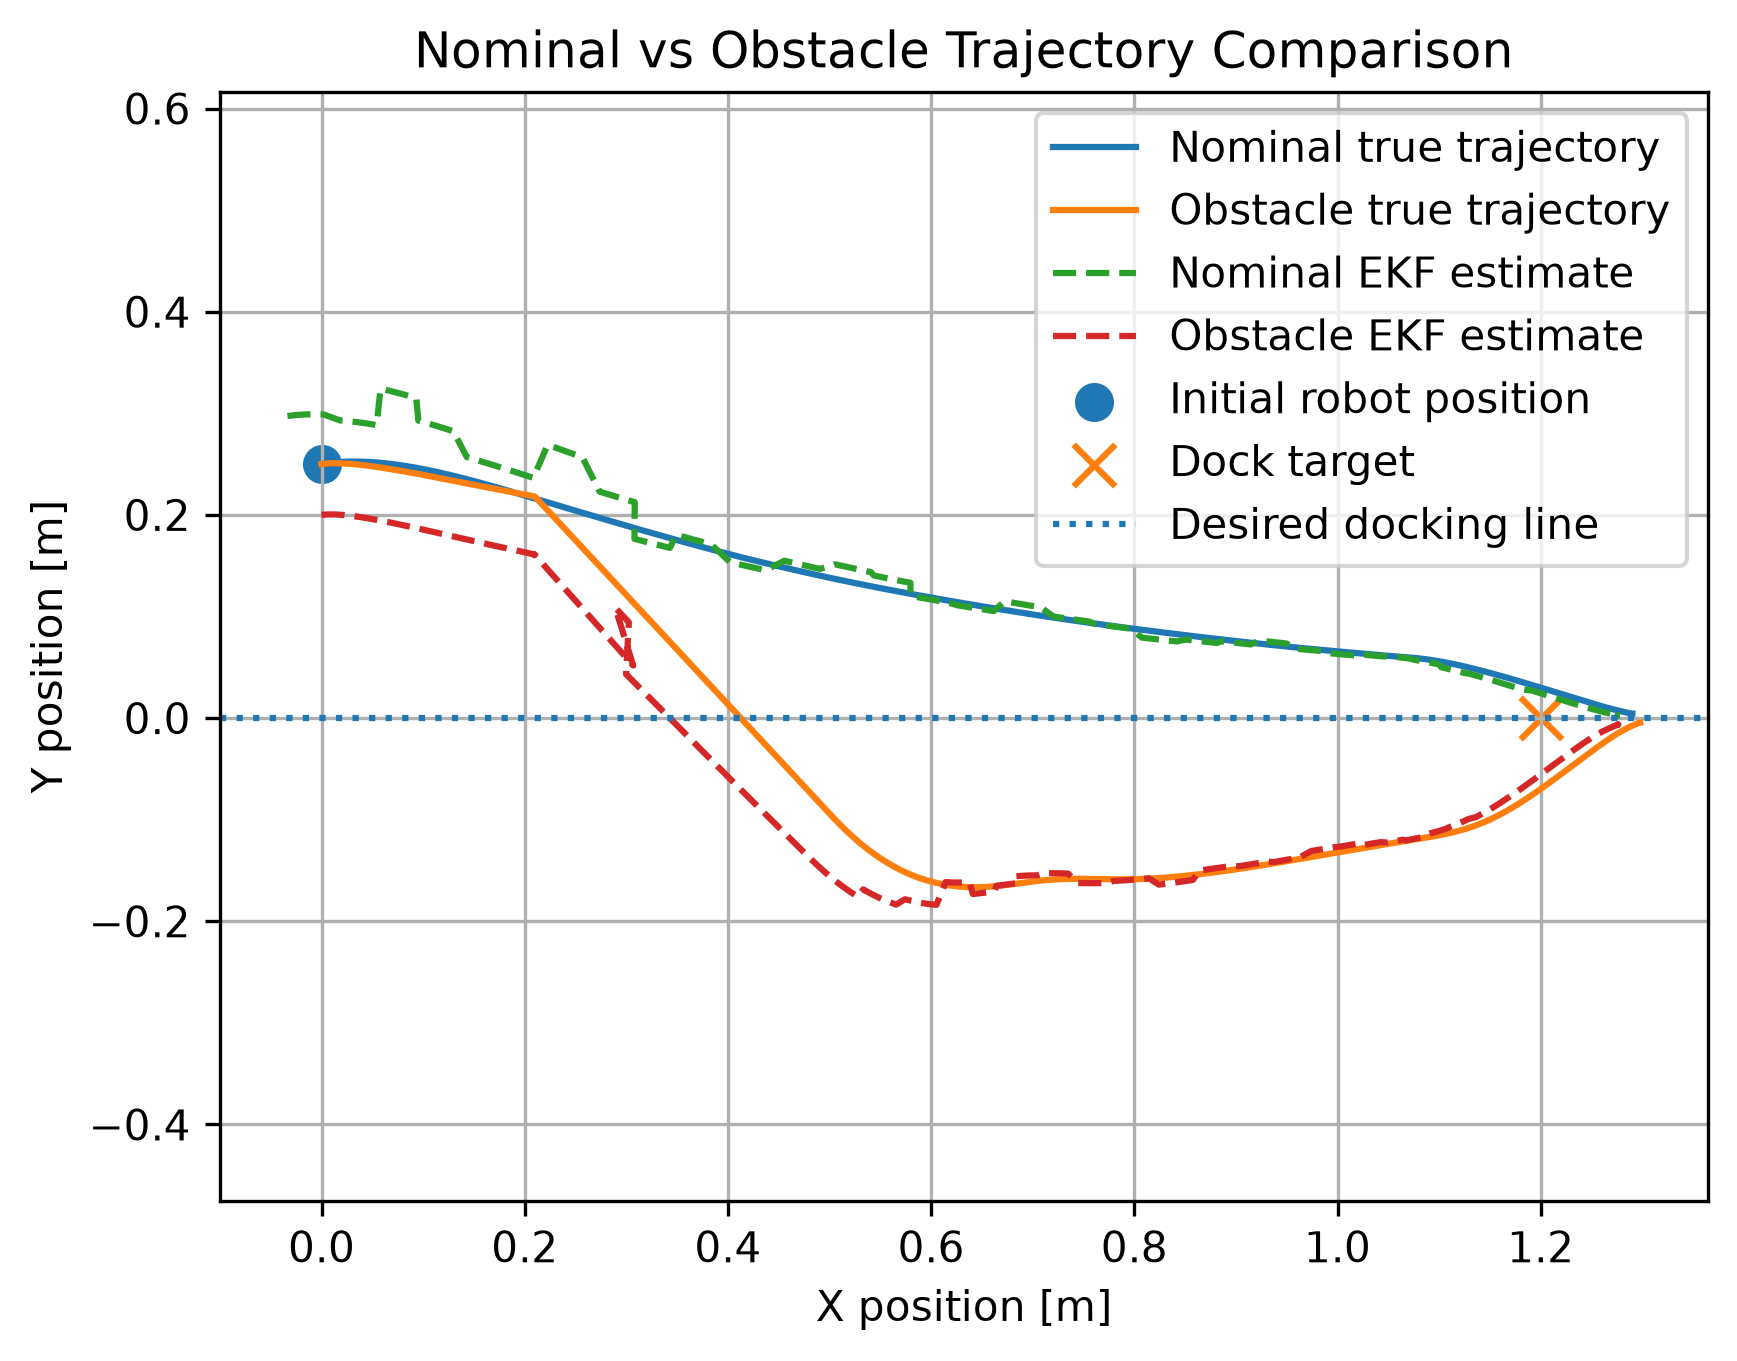
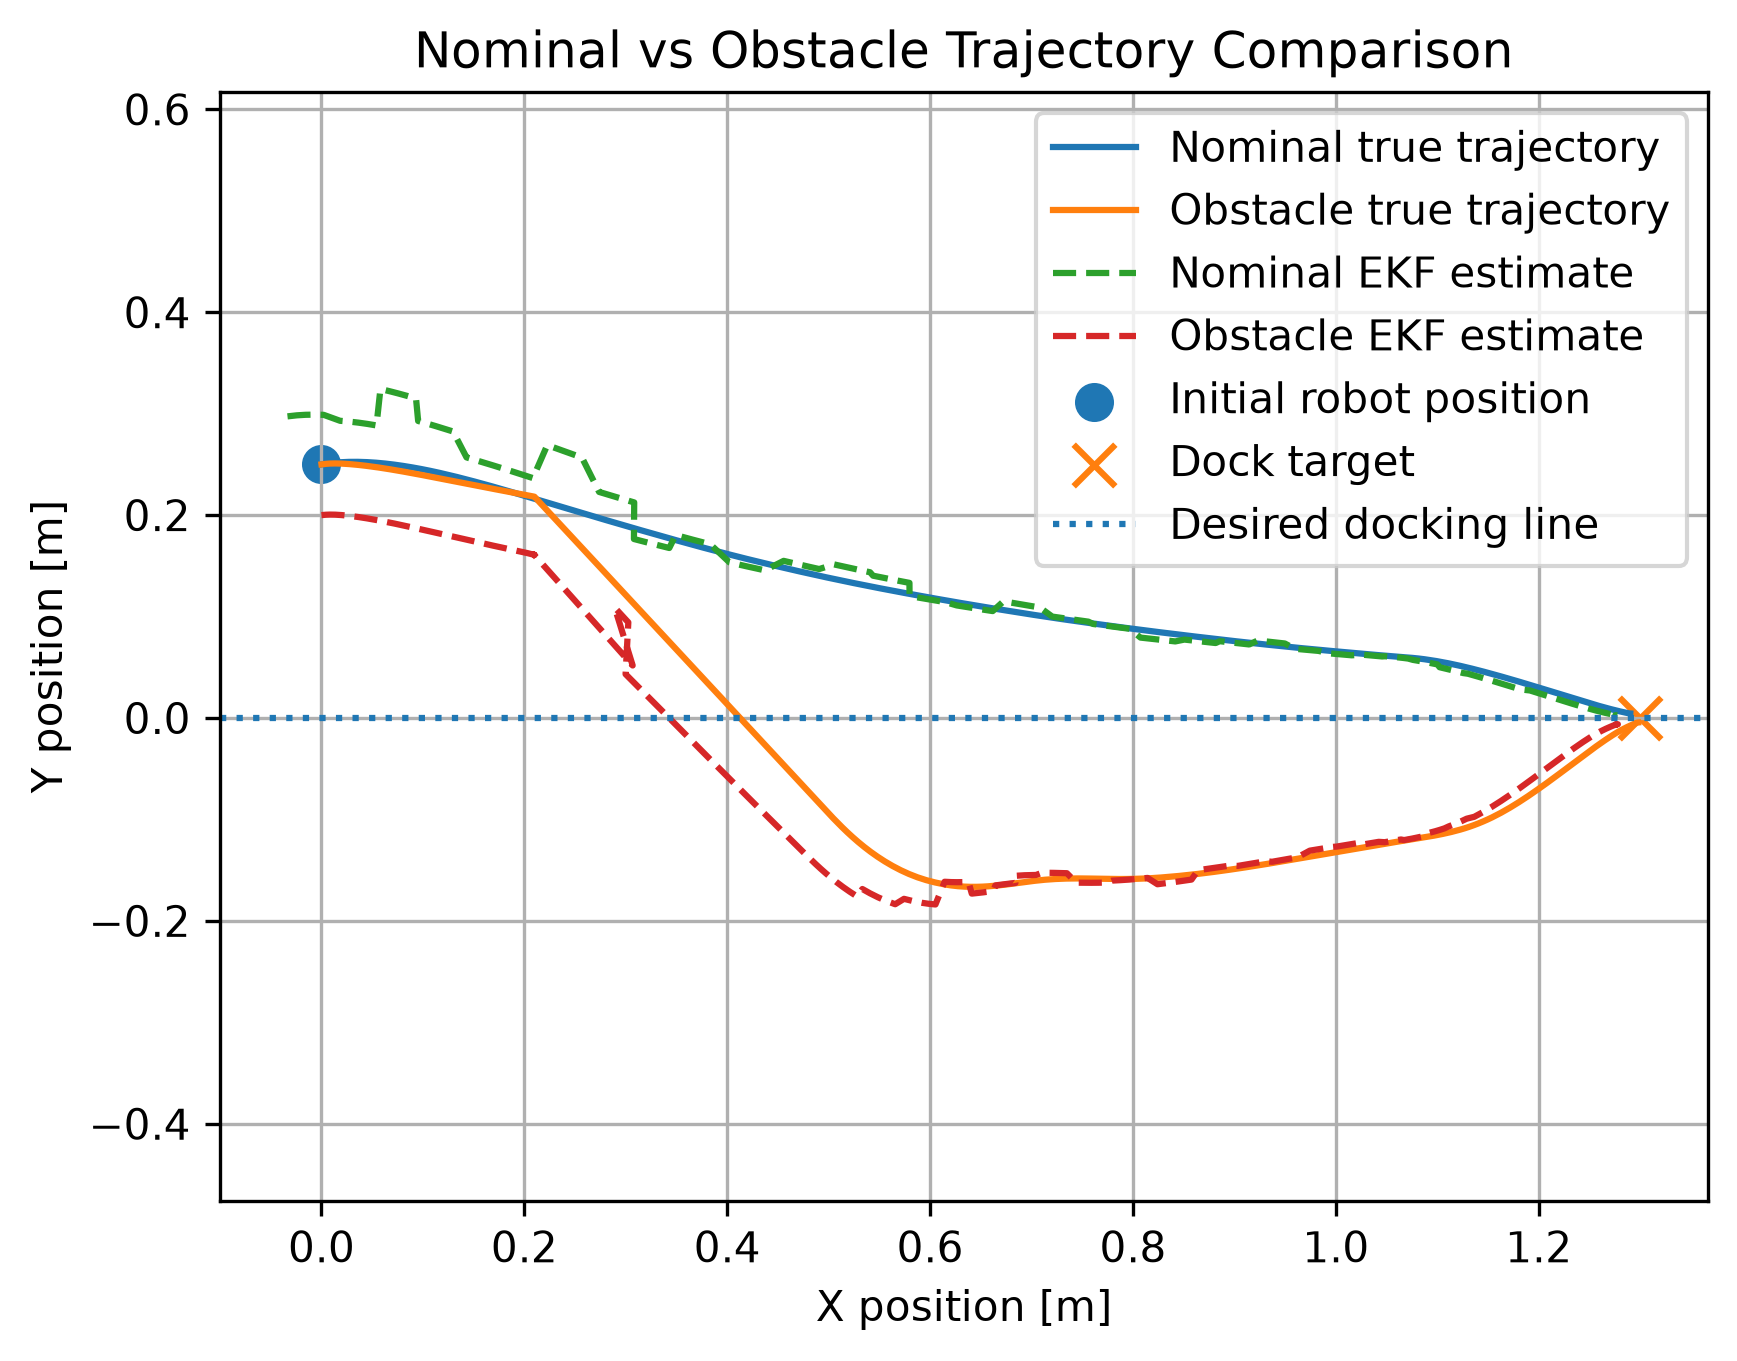
Finalise project consistency, comparison results and documentation

diff --git a/scripts/compare_final_results.py b/scripts/compare_final_results.py
@@ -163,6 +163,7 @@ obstacle = read_metrics_csv(
 
 required_metrics = [
     "camera_updates",
+    "final_true_x_m",
     "final_localisation_error_m",
     "position_rmse_m",
     "true_lateral_rmse_m",
@@ -273,6 +274,12 @@ with open(
         "percent_change"
     ])
 
+    magnitude_metrics = {
+        "Final X docking error",
+        "Final Y docking error",
+        "Final heading error",
+    }
+
     for (
         metric_name,
         nominal_value,
@@ -280,16 +287,39 @@ with open(
         unit
     ) in comparison_rows:
 
+        # For signed final errors, compare error magnitudes.
+        # Keep the original signed values in the nominal
+        # and obstacle columns.
+        if metric_name in magnitude_metrics:
+
+            nominal_for_change = abs(
+                nominal_value
+            )
+
+            obstacle_for_change = abs(
+                obstacle_value
+            )
+
+        else:
+
+            nominal_for_change = (
+                nominal_value
+            )
+
+            obstacle_for_change = (
+                obstacle_value
+            )
+
         absolute_change = (
-            obstacle_value
-            - nominal_value
+            obstacle_for_change
+            - nominal_for_change
         )
 
-        if nominal_value != 0:
+        if nominal_for_change != 0:
 
             percent_change = (
                 absolute_change
-                / abs(nominal_value)
+                / abs(nominal_for_change)
                 * 100.0
             )
 
@@ -325,7 +355,7 @@ for (
     print(
         f"{metric_name:<30}"
         f"Nominal: {nominal_value:>10.5f} {unit:<5}"
-        f"Obstacle: {obstacle_value:>10.5f} {unit}"
+        f"  Obstacle: {obstacle_value:>10.5f} {unit}"
     )
 
 print()
@@ -687,8 +717,15 @@ plt.scatter(
     label="Initial robot position"
 )
 
+# Recover the docking target from the nominal final result:
+# final_x_docking_error = final_true_x - target_x
+dock_target_x = (
+    nominal["final_true_x_m"]
+    - nominal["final_x_docking_error_m"]
+)
+
 plt.scatter(
-    1.20,
+    dock_target_x,
     0.0,
     marker="x",
     s=100,
@@ -852,7 +889,7 @@ Obstacle planar docking error:
 {obstacle_planar * 1000.0:.1f} mm
 
 Both scenarios also finished with an absolute heading error
-below 3 degrees.
+of approximately 3.2 degrees or less.
 
 The obstacle scenario therefore demonstrates that the robot
 can recover from a LiDAR-triggered avoidance manoeuvre and

diff --git a/scripts/test_docking_speed.py b/scripts/test_docking_speed.py
@@ -1,7 +1,7 @@
 from src.controller import docking_forward_speed
 
 
-target_x = 1.20
+target_x = 1.30
 max_speed = 0.18
 slow_distance = 0.50
 stop_tolerance = 0.03
@@ -13,8 +13,9 @@ test_positions = [
     0.8,
     1.0,
     1.15,
-    1.18,
-    1.20
+    1.25,
+    1.28,
+    1.30
 ]
 
 

diff --git a/scripts/simulate_mujoco_full.py b/scripts/simulate_mujoco_full.py
@@ -170,7 +170,7 @@ A, B, K = design_lqr(
 # DOCKING TARGET
 # ==================================================
 
-target_x = 1.20
+target_x = 1.30
 
 slow_distance = 0.50
 

diff --git a/scripts/simulate_mujoco_nominal.py b/scripts/simulate_mujoco_nominal.py
@@ -1862,7 +1862,7 @@ plt.ylabel(
 )
 
 plt.title(
-    "Full MuJoCo EKF + LQR Docking"
+    "Full MuJoCo EKF + LQR + Pose-Control Docking"
 )
 
 plt.axis(

diff --git a/README.md b/README.md
@@ -131,7 +131,8 @@ v = \frac{r}{2}\left(\omega_R+\omega_L\right),
 | Maximum forward speed | 0.18 m/s |
 | Maximum forward acceleration | 0.12 m/s² |
 | Maximum angular acceleration during normal control | 1.5 rad/s² |
-| Simulation duration | 25 s |
+| Nominal simulation duration | 20 s |
+| Obstacle simulation duration | 25 s |
 
 ---
 
@@ -319,12 +320,14 @@ The controller switches to final pose docking when
 |---|---:|
 | Final docking start \(x\) | 1.05 m |
 | Docking target \(x\) | 1.30 m |
-| Slow-down distance | 0.50 m |
-| Stop tolerance | 0.03 m |
+| Approach slow-down distance | 0.50 m |
+| Approach forward-speed stop tolerance | 0.03 m |
+| Final pose position tolerance | 0.025 m |
+| Final pose heading tolerance | 3° |
 | Final docking maximum angular speed | 0.5 rad/s |
 | Final heading alignment gain | 0.8 |
 
-### Command smoothing and handovers
+### Obstacle-scenario command smoothing and handovers
 
 - **Recovery-to-normal handover:** 0.60 s blend from recovery speed back to nominal control.
 - **LQR-to-final-dock handover:** 0.60 s blend between the last LQR command and the final pose-controller command.
@@ -372,6 +375,8 @@ The whole-run heading RMSE is intentionally larger because it includes the obsta
 
 The comparison script reads the final nominal and obstacle metrics and generates the comparison plots under `results/comparison/`.
 
+The obstacle trial uses a longer simulation window to accommodate the avoidance and recovery manoeuvre; therefore, whole-run RMSE values represent each complete scenario rather than identical-duration trials.
+
 | Metric | Nominal | Obstacle |
 |---|---:|---:|
 | Camera / EKF updates | 32 | 23 |
@@ -405,6 +410,12 @@ The obstacle case increases transient localisation and tracking error because th
 #### Camera update comparison
 
 ![Nominal vs obstacle camera update comparison](results/comparison/camera_update_comparison.png)
+
+### Final simulation compilation
+
+The final compilation combines the nominal and obstacle trials, preserves 1.0× simulation-time playback, and includes a quantitative comparison of both scenarios.
+
+[View the final simulation compilation](results/compilation/41014_robot_simulation_compilation.mp4)
 
 ---
 
@@ -484,7 +495,9 @@ Outputs are written to `results/comparison/`.
 ├── results/
 │   ├── nominal/
 │   ├── obstacle/
-│   └── comparison/
+│   ├── comparison/
+|   └── compilation/       # Final marker-facing simulation compilation
+|
 ├── requirements.txt
 ├── screenshot.png
 └── README.md
